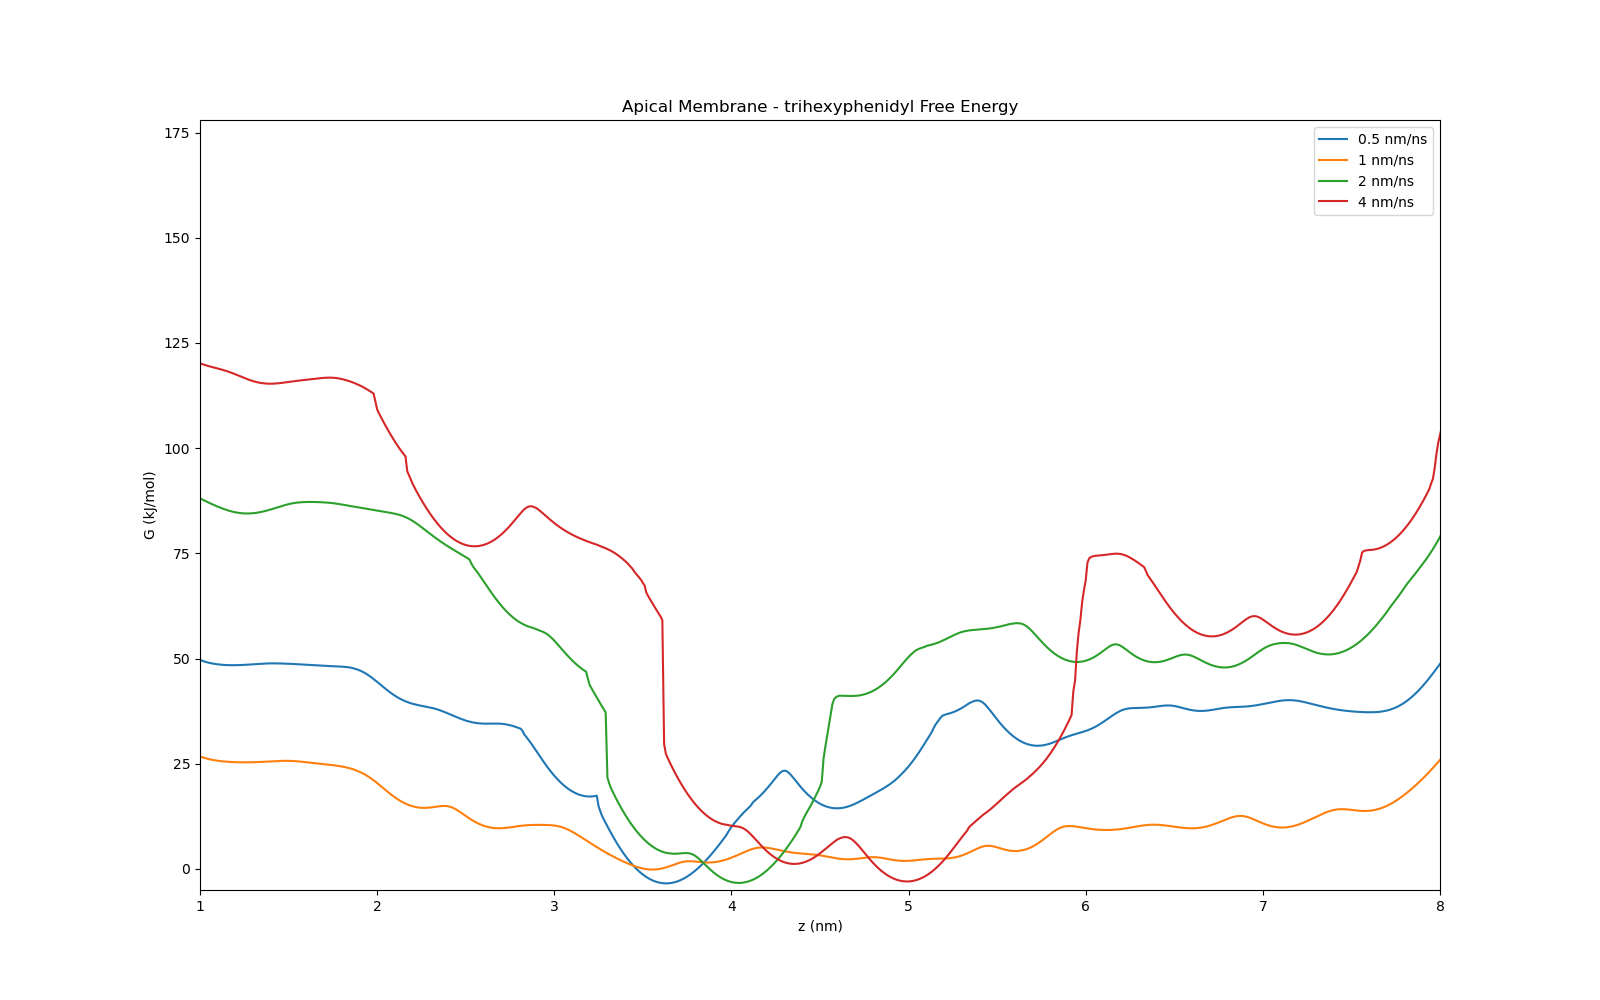
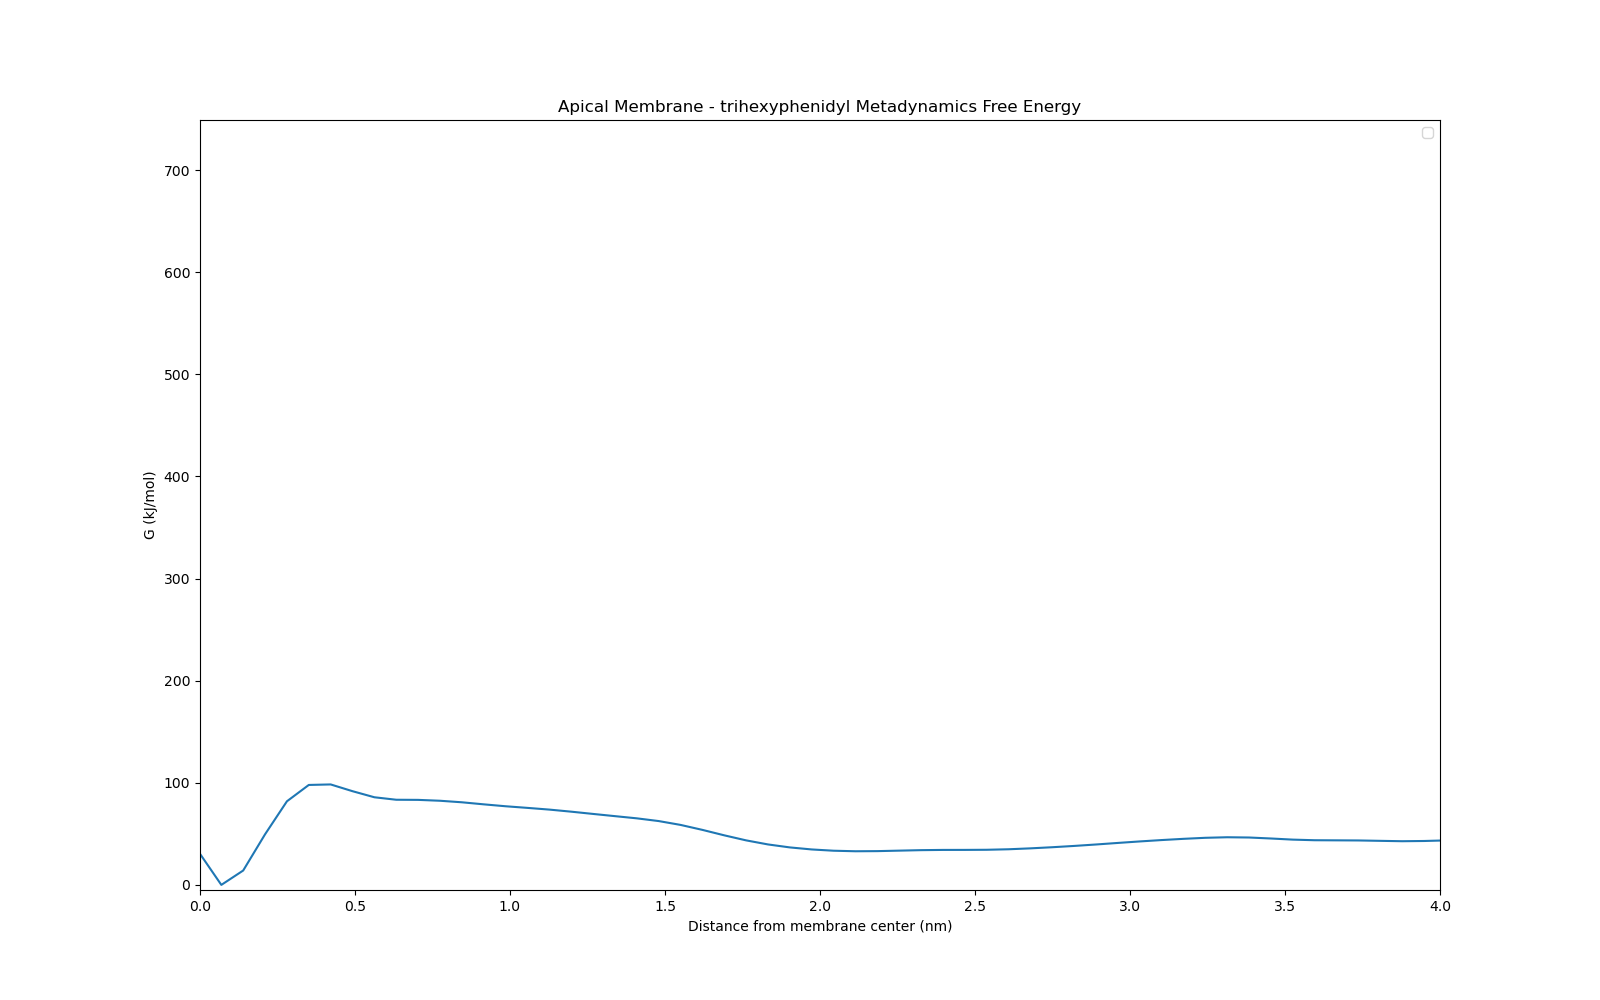
Add metadynamics plotting

diff --git a/common/plotting/plot_fe.py b/common/plotting/plot_fe.py
@@ -22,13 +22,13 @@ def plot_fe(args):
             fn,
             comment='#',
             sep='\\s+',
-            names=['z', 'G', 'dG']
+            names=['d_abs', 'G', 'dG']
             )
-        plt.plot(data['z'], data['G'], label=name)
-    plt.xlabel('z (nm)')
+        plt.plot(data['d_abs'], data['G'], label=name)
+    plt.xlabel('Distance From Membrane Centre (nm)')
     plt.ylabel('G (kJ/mol)')
-    plt.xlim(1, 8)
-    plt.ylim(-5, None)
+    plt.xlim(0, 4)
+    plt.ylim(-5, 400)
     plt.legend()
     plt.title(args.title)
     plt.savefig(args.out)
@@ -36,23 +36,21 @@ def plot_fe(args):
 # If no arguments are provided, use our hardcoded values
 if len(sys.argv) == 1:
     membranes = [
-        ('Apical Membrane', '../../apical/charmm-gui-2960669761-charmm36-nacl/gromacs/', './apical/'),
-        ('Basolateral Membrane', '../../basolateral/charmm-gui-2960967181-nacl-charmm36/gromacs/', './basolateral/')]
+        ('Apical Membrane', '../../apical/charmm-gui-2960669761-charmm36-nacl/gromacs/', './apical'),
+        ('Basolateral Membrane', '../../basolateral/charmm-gui-2960967181-nacl-charmm36/gromacs/', './basolateral')]
     molecules = ['trihexyphenidyl', 'isopropanol', 'caffeine', 'morphine-6-glucuronide', 'sucrose']
-    configurations = [(0.5, 'vslow'), (1, 'slow'), (2, 'fast'), (4, 'vfast')]
     
     for membrane_name, membrane_fn, out_fn in membranes:
         os.makedirs(out_fn, exist_ok=True)
+        args.fn = []
+        args.names = []
+        args.out = out_fn + '.png'
+        args.title = f'{membrane_name} - Free Energy'
         for molecule in molecules:
-            args.out = out_fn + molecule + '.png'
-            args.fn = []
-            args.names = []
-            args.title = f'{membrane_name} - {molecule} Free Energy'
-            for s, speed_name in configurations:
-                args.fn += [membrane_fn + molecule + '/smd_' + speed_name + '_fe']
-                args.names += [f'{s} nm/ns']
+            args.fn += [membrane_fn + molecule + '/fes.dat']
+            args.names += [f'{molecule}']
 
-            plot_fe(args)
+        plot_fe(args)
 
 else:
     plot_fe(args)
